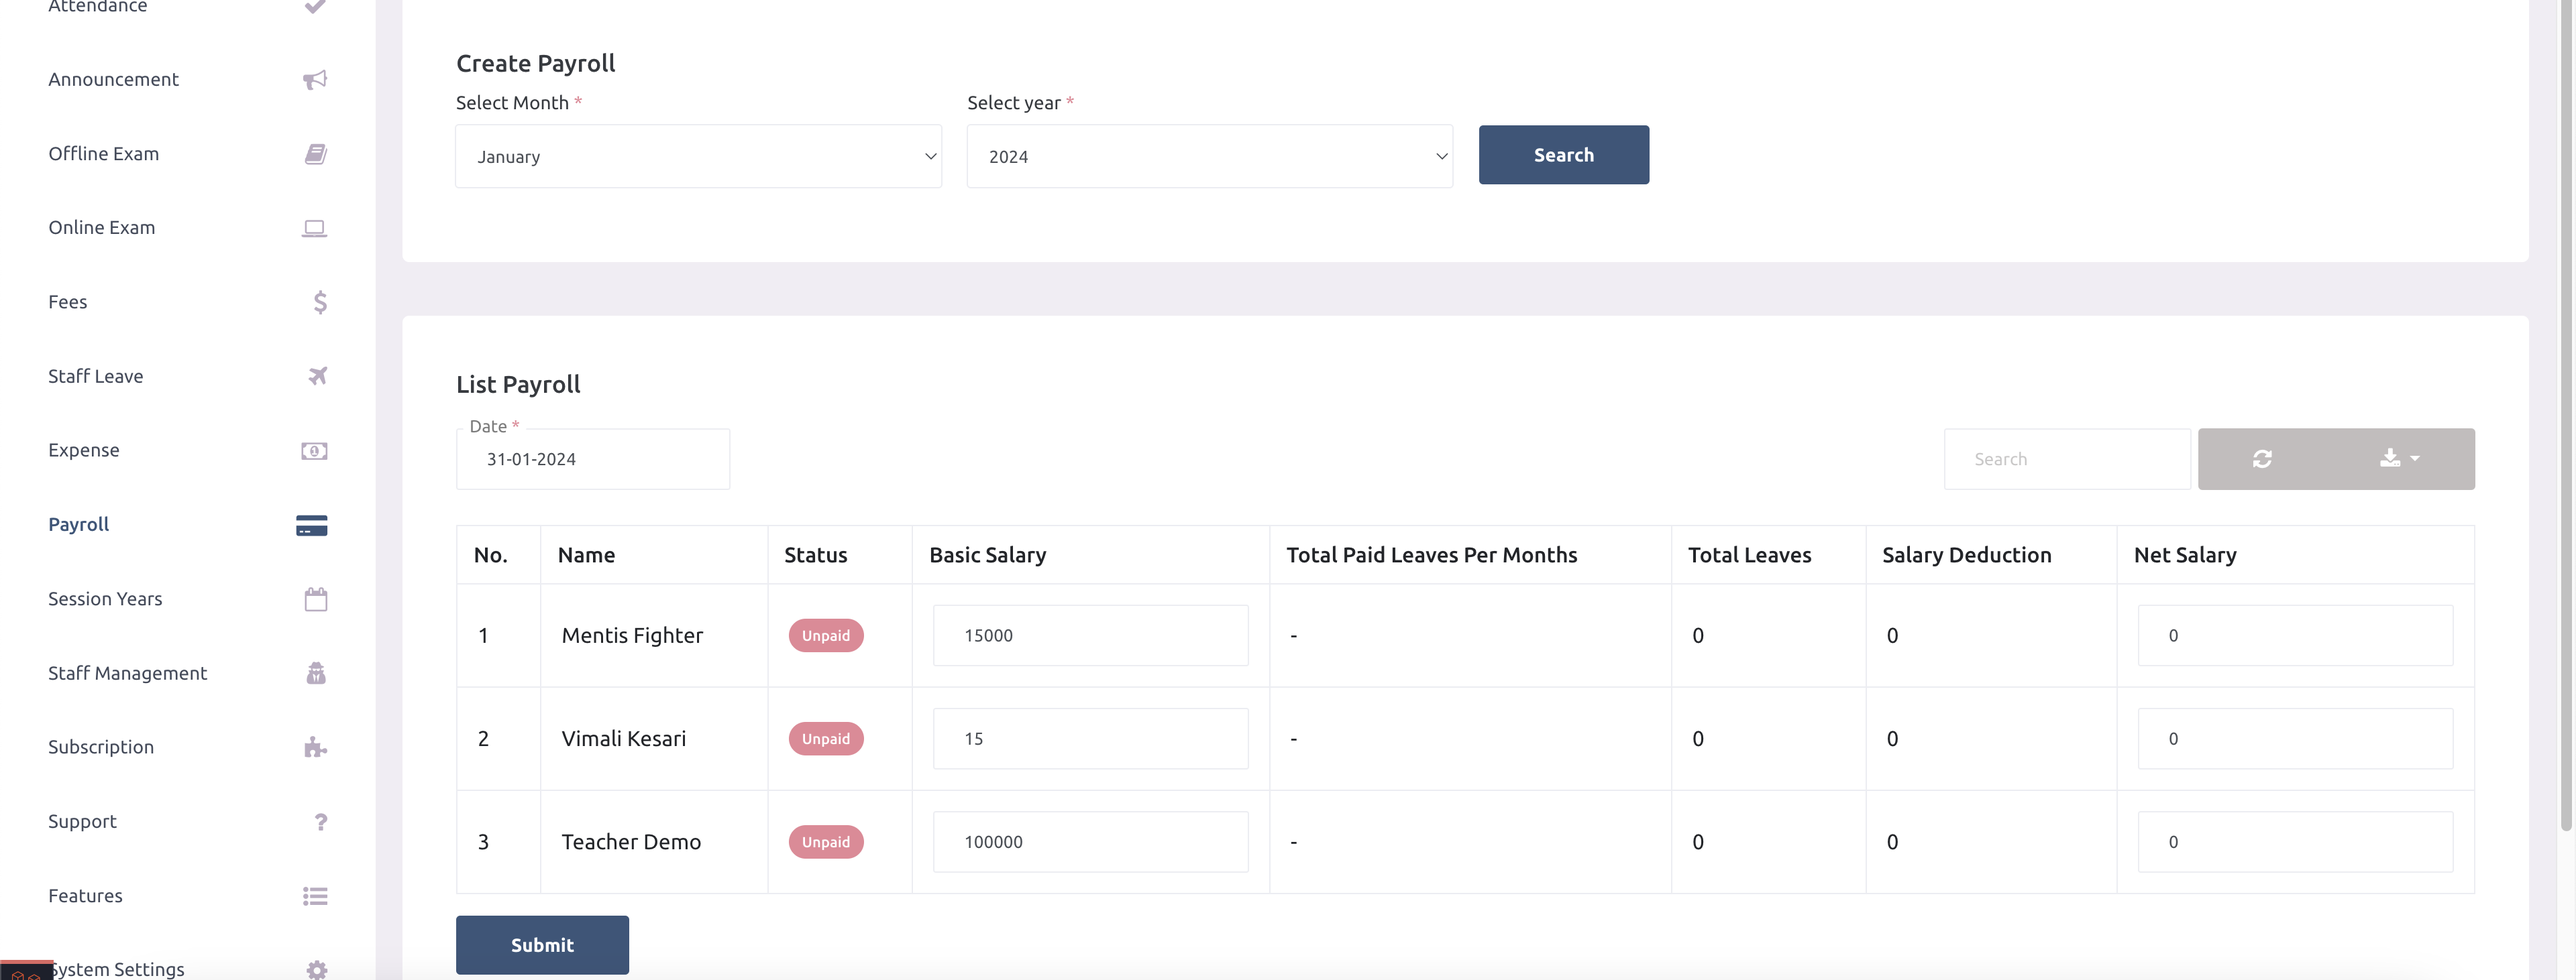
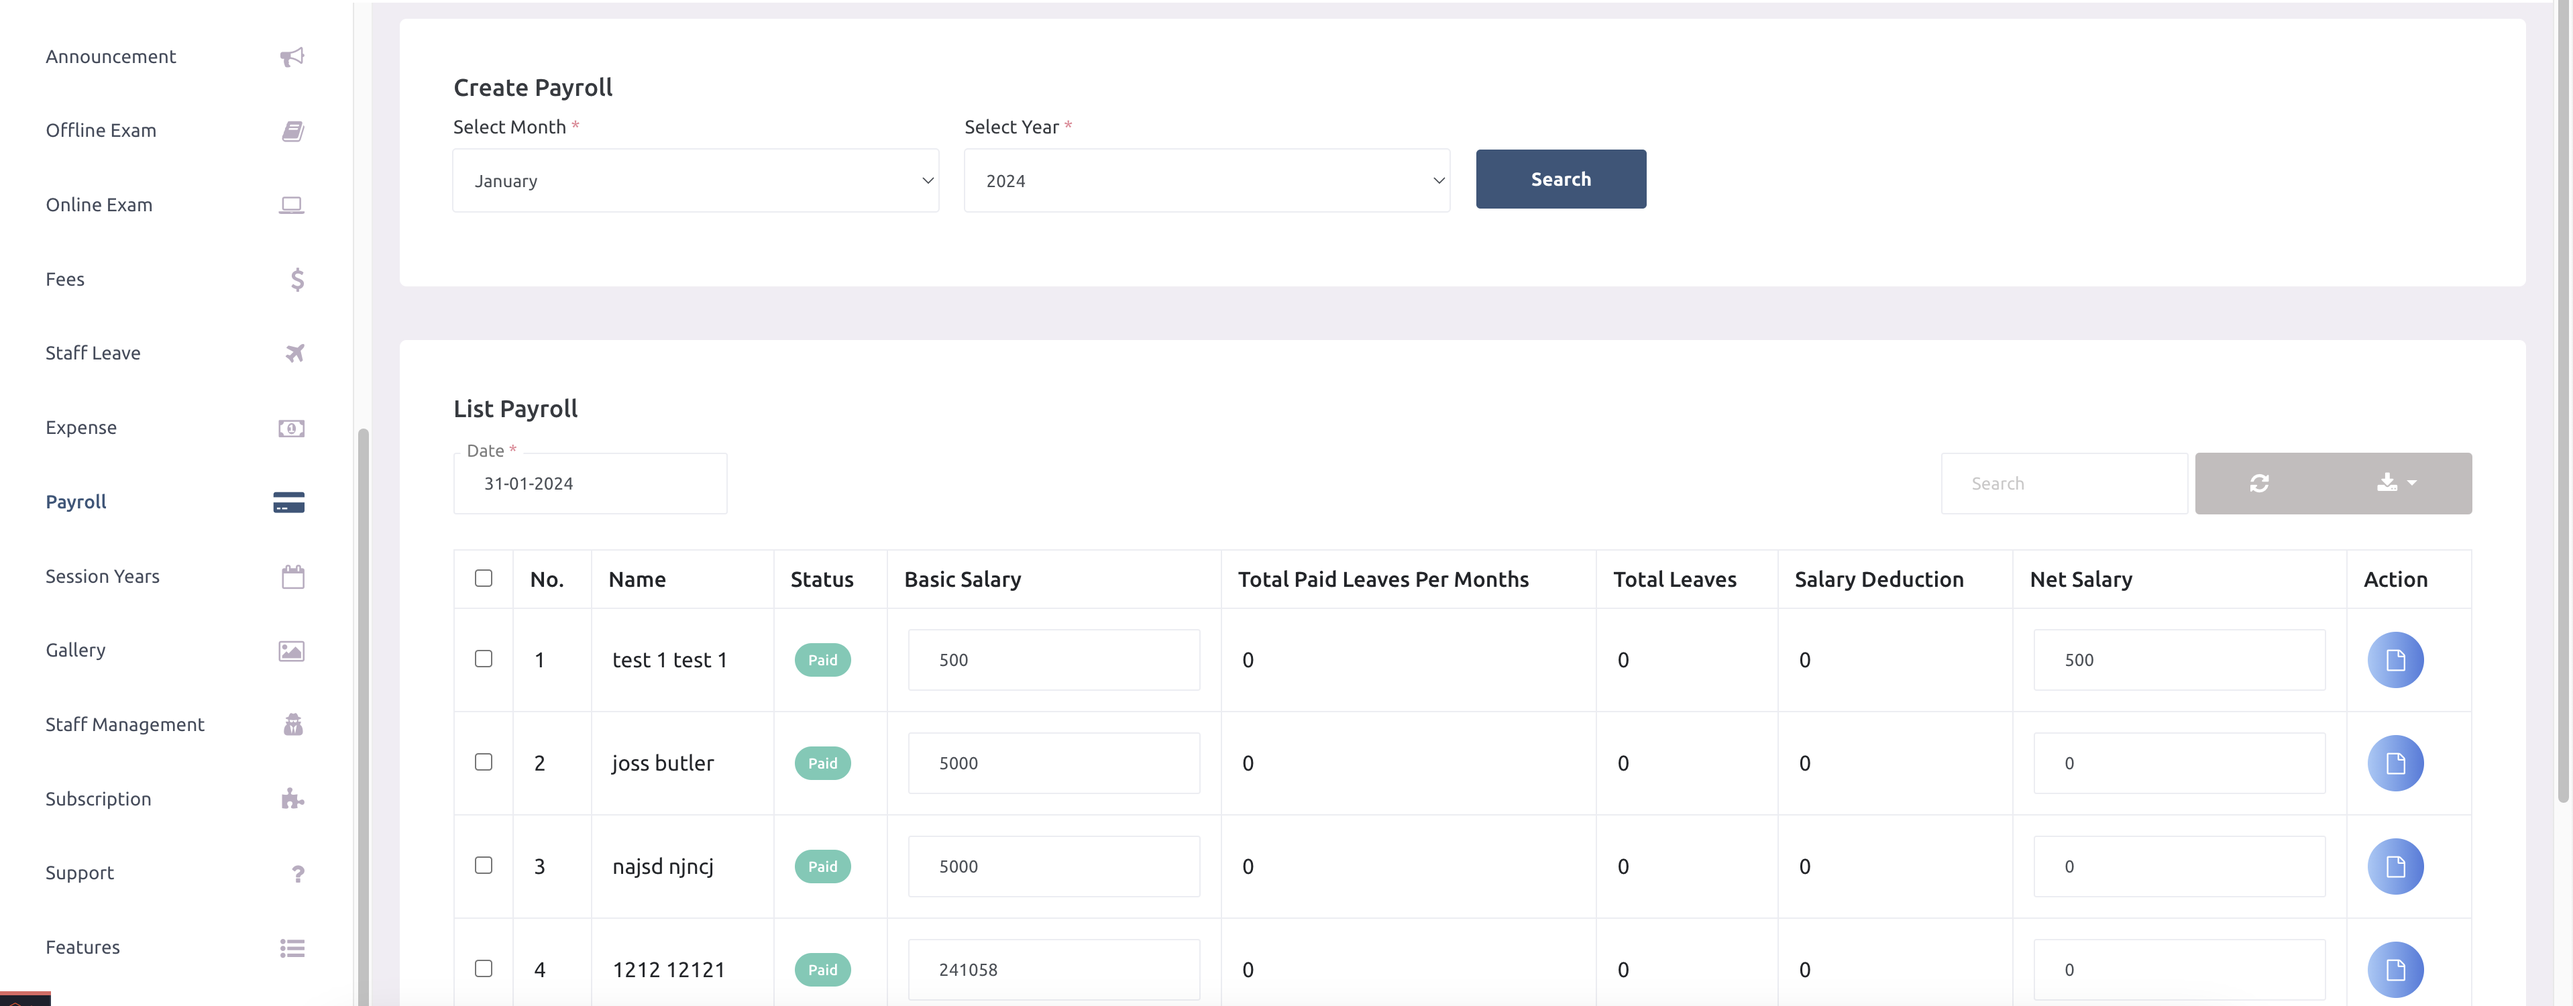
update payroll related details

diff --git a/index.html b/index.html
@@ -1242,6 +1242,16 @@
                 </div>
                 <img src="images/payroll.png" alt="e-School Saas" style="width: 100%;">
                 <br />
+                <ul>
+                    <li>
+                        <h2>
+                            School admin can now download the salary slip of the employee.
+                        </h2>
+                    </li>
+                    </br>
+                </ul>
+                <br />
+
                 <br />
             </section>
 
